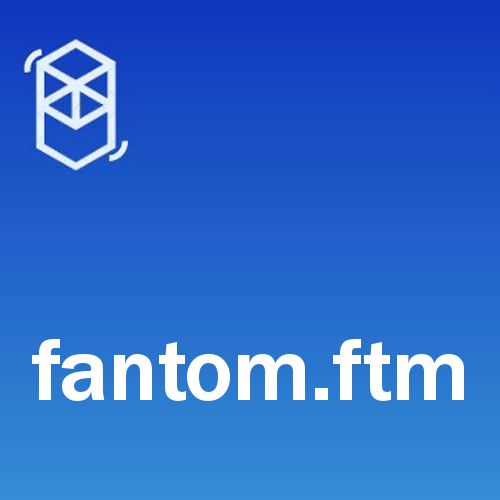
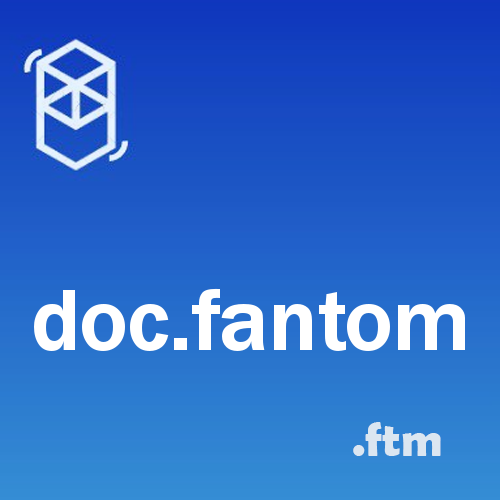
fixed nft name issue

Changed region(s): [[0.06, 0.57, 0.93, 0.81], [0.69, 0.84, 0.9, 0.93]]

diff --git a/utils.js b/utils.js
@@ -26,10 +26,10 @@ const customFonts = {
   },
 }
 const fonts = {
-  postTitlexl: 'bold 100px Franklin Gothic Medium',
-  postTitlelg: 'bold 80px Franklin Gothic Medium',
-  postTitlemd: 'bold 60px Franklin Gothic Medium',
-  postTitlesm: 'bold 40px Franklin Gothic Medium',
+  postTitlexl: 'bold 110px Franklin Gothic Medium',
+  postTitlelg: 'bold 90px Franklin Gothic Medium',
+  postTitlemd: 'bold 70px Franklin Gothic Medium',
+  postTitlesm: 'bold 50px Franklin Gothic Medium',
   site: 'bold 30pt Franklin Gothic Medium',
 }
 // Register custom fonts
@@ -93,9 +93,16 @@ module.exports.wrapText = (ctx, text, x, y, maxTextWidth, lineHeight) => {
 }
 
 module.exports.generateNFT = async (new_params, canvasConfig) => {
+  const names = new_params.name.split('.')
+  let actualName = ''
+  for (let i = 0; i < names.length - 1; i += 1) {
+    actualName += names[i]
+    if (i < names.length - 2) actualName += '.'
+  }
+  console.log('actualName', actualName)
   const imageCanvas = createCanvas(canvasConfig.width, canvasConfig.height)
   const ctx = imageCanvas.getContext('2d')
-  const textWidth = ctx.measureText(new_params.name).width
+  const textWidth = ctx.measureText(actualName).width
   loadImage(paths.bgImage).then(async (data) => {
     ctx.drawImage(data, 0, 0)
     ctx.fillStyle = 'rgba(30, 144, 255, 0.1)'
@@ -103,22 +110,22 @@ module.exports.generateNFT = async (new_params, canvasConfig) => {
     ctx.fillStyle = 'white'
     ctx.textAlign = 'center'
     ctx.textBaseline = 'alphabetic'
-    console.log('length of name: ', new_params.name.length)
-    if (new_params.name.length < 7) {
+    console.log('length of name: ', actualName.length)
+    if (actualName.length < 7) {
       ctx.font = fonts.postTitlexl
-    } else if (new_params.name.length >= 7 && new_params.name.length <= 10) {
+    } else if (actualName.length >= 7 && actualName.length <= 10) {
       ctx.font = fonts.postTitlelg
-    } else if (new_params.name.length > 10 && new_params.name.length < 14) {
+    } else if (actualName.length > 10 && actualName.length < 14) {
       ctx.font = fonts.postTitlemd
-    } else if (new_params.name.length >= 14 && new_params.name.length < 20) {
+    } else if (actualName.length >= 14 && actualName.length < 20) {
       ctx.font = fonts.postTitlesm
     } else {
       ctx.font = fonts.site
     }
     let drawX = 250
-    let drawY = 400
+    let drawY = 350
     let maxWidth = 450
-    ctx.fillText(new_params.name, drawX, drawY, maxWidth)
+    ctx.fillText(actualName, drawX, drawY, maxWidth)
     fs.writeFileSync(
       `${paths.images}/${new_params.tokenId.toString()}.png`,
       imageCanvas.toBuffer('image/png'),
